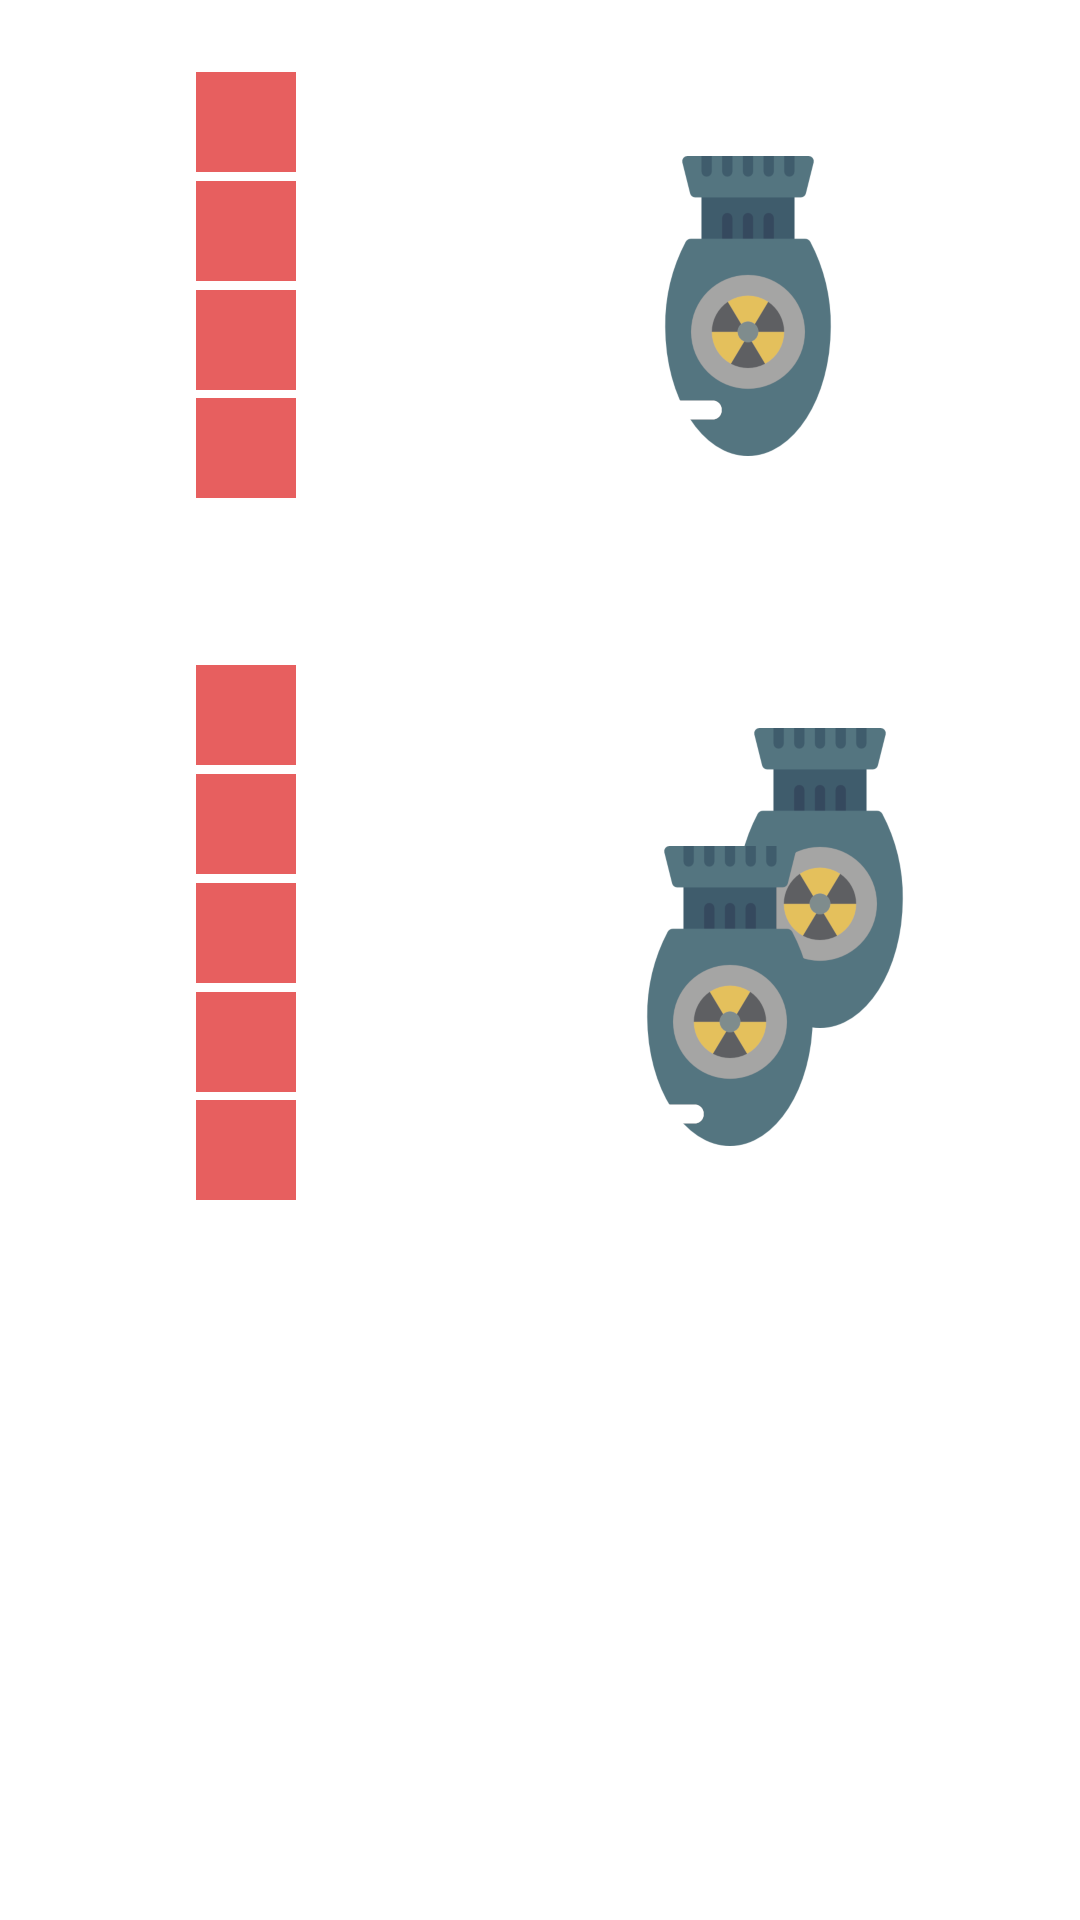
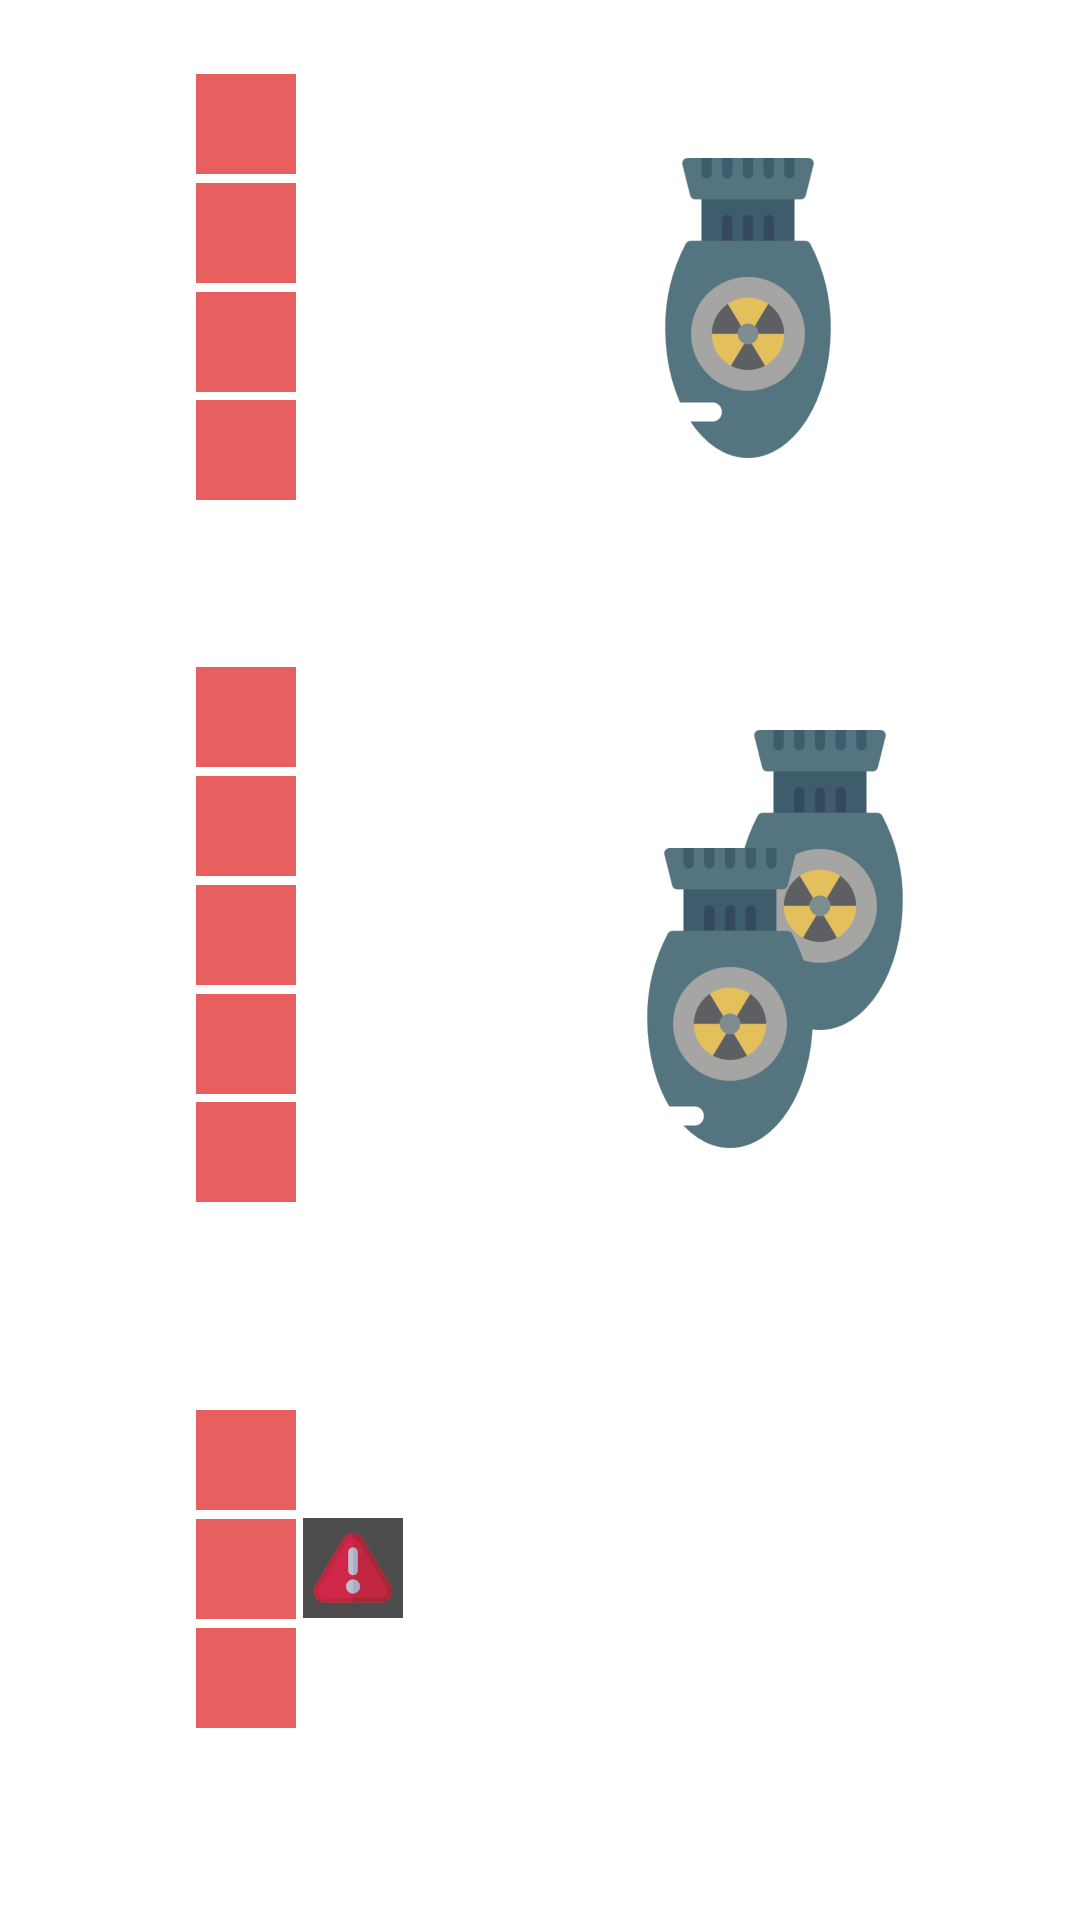
Added losing

diff --git a/main.py b/main.py
@@ -23,11 +23,13 @@ class Block(ButtonBehavior, Image):
     def on_press(self):
         self.parent.parent.parent.block_pressed(self)
 
-    def look_for_line(self, destroy=True):
+    def look_for_line(self, destroy=True, look_for_black=True):
         blocks_to_destroy = self.check_horizontal() + self.check_vertical()
         if len(blocks_to_destroy) > 0:
             if destroy:
                 for block in blocks_to_destroy:
+                    if look_for_black:
+                        block.look_for_black()
                     block.destroy()
             return True
         return False
@@ -101,6 +103,21 @@ class Block(ButtonBehavior, Image):
                 blocks_to_destroy.append(self)
         return blocks_to_destroy
 
+    def look_for_black(self):
+        parent = self.parent.parent.parent
+        if not self.index_y >= parent.board_size - 1:
+            if parent.blocks[self.index_y + 1][self.index_x].c == "black":
+                parent.game_over()
+        if not self.index_y <= 0:
+            if parent.blocks[self.index_y - 1][self.index_x].c == "black":
+                parent.game_over()
+        if not self.index_x >= parent.board_size - 1:
+            if parent.blocks[self.index_y][self.index_x + 1].c == "black":
+                parent.game_over()
+        if not self.index_x <= 0:
+            if parent.blocks[self.index_y][self.index_x - 1].c == "black":
+                parent.game_over()
+
     def fall(self, dt):
         parent = self.parent.parent.parent
         if self.index_y > 0:
@@ -109,7 +126,7 @@ class Block(ButtonBehavior, Image):
                 self.swap_colors(block_above, False)
                 Clock.schedule_once(block_above.fall, 0.0)
         self.check_is_destroyed()
-        self.look_for_line()
+        self.look_for_line(look_for_black=False)
 
     def destroy(self):
         Clock.schedule_once(self.set_to_destroyed, 2)
@@ -262,6 +279,11 @@ class PlayScreen(Screen):
 
     def block_pressed(self, block):
         self.last_touched_block = block
+
+    def game_over(self):
+        print("GAME OVER")
+        self.add_widget(Image(source="img/shadow.png", pos_hint={'center_x': .5, 'center_y': .5}))
+        self.add_widget(Image(source="img/game_over.png", pos_hint={'center_x': .5, 'center_y': .5}))
 
     def on_touch_down(self, touch):
         self.last_x = touch.pos[0]
